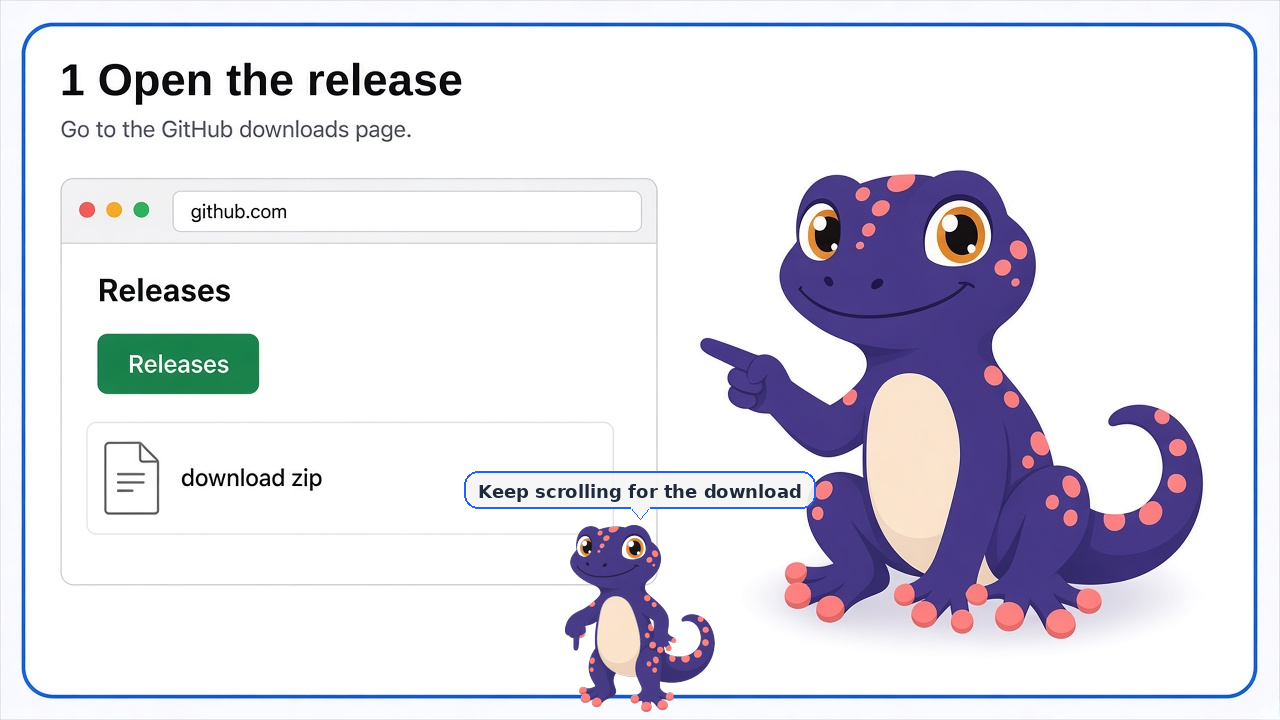
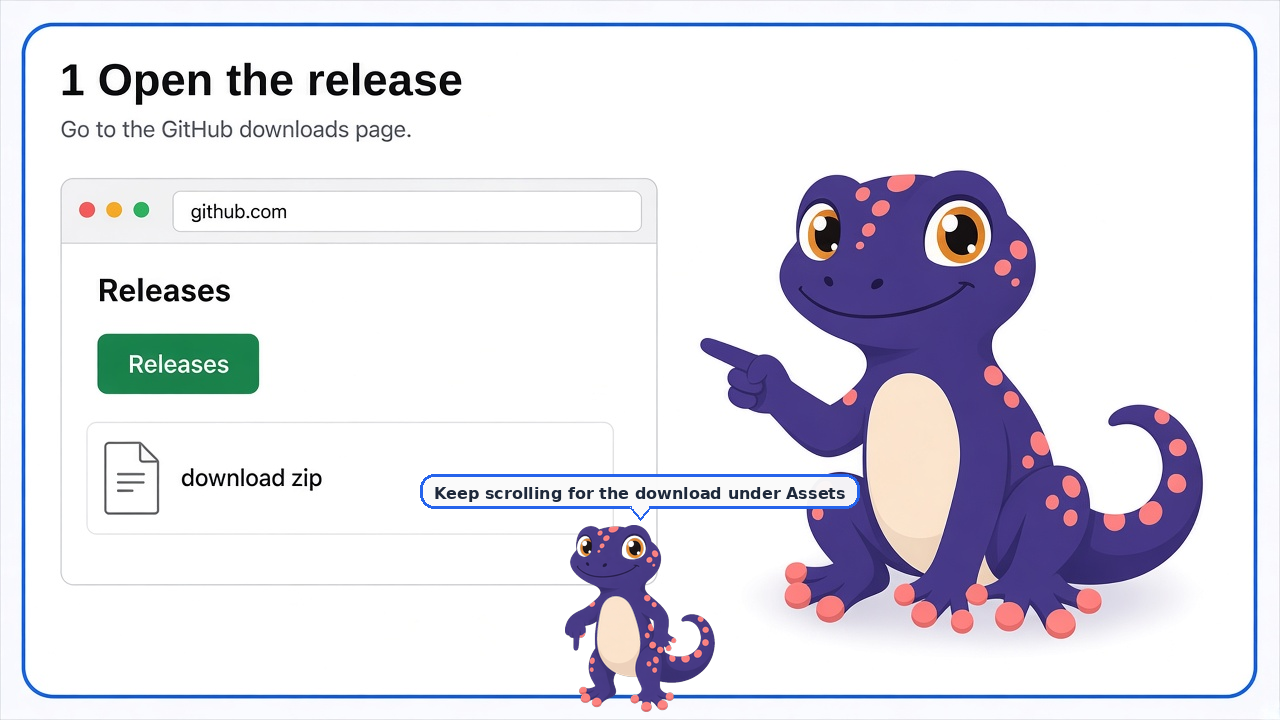
Show Assets in the gecko bubble and bust image cache.
Bubble now says “Keep scrolling for the download under Assets”, and cards move to docs/cards/ so the GitHub page loads fresh pictures.

Changed region(s): [[0.3125, 0.6417, 0.6875, 0.7333]]

diff --git a/README.md b/README.md
@@ -6,7 +6,7 @@
 - Works with several live tabs open.
 - Free. No account. Nothing leaves your computer.
 
-<img src="docs/what-it-is.png" width="800" alt="Watch the live stream. Ads stay off your screen. The stream keeps playing, several live tabs can stay open, and nothing leaves your computer.">
+<img src="docs/cards/what-it-is.png" width="800" alt="Watch the live stream. Ads stay off your screen. The stream keeps playing, several live tabs can stay open, and nothing leaves your computer.">
 
 A free Chrome extension for Twitch live streams and YouTube. It runs only in your browser and does not send data anywhere.
 
@@ -20,16 +20,16 @@ A free Chrome extension for Twitch live streams and YouTube. It runs only in you
 
 It only runs inside Chrome on Twitch and YouTube.
 
-<img src="docs/safe/02-only-sites.png" width="800" alt="Only Twitch and YouTube. Does not run other webpages or programs on your PC.">
+<img src="docs/cards/safe/02-only-sites.png" width="800" alt="Only Twitch and YouTube. Does not run other webpages or programs on your PC.">
 
-<img src="docs/safe/03-no-data.png" width="800" alt="No data collection. No account. Nothing is collected or sent off your computer.">
+<img src="docs/cards/safe/03-no-data.png" width="800" alt="No data collection. No account. Nothing is collected or sent off your computer.">
 
 - **Only Twitch and YouTube** — does not open or run other webpages, and does not install programs on your PC.
 - **No data collection** — no account, nothing collected, nothing sent off your computer.
 
 ## Current build
 
-<img src="docs/whats-new.png" width="800" alt="Current stable build v0.2.3. Gecko toolbar icon. Twitch live swaps to a clean stream during ads. YouTube clears player ads and home Sponsored cards.">
+<img src="docs/cards/whats-new.png" width="800" alt="Current stable build v0.2.3. Gecko toolbar icon. Twitch live swaps to a clean stream during ads. YouTube clears player ads and home Sponsored cards.">
 
 The toolbar icon is a gecko head. Twitch and YouTube work as described above.
 
@@ -43,13 +43,13 @@ You do **not** need a GitHub account. You are only downloading a zip and loading
 
 ### 1. Open the release page
 
-<img src="docs/install/01-open-github.png" width="800" alt="Step 1: Open the GitHub release page.">
+<img src="docs/cards/install/01-open-github.png" width="800" alt="Step 1: Open the GitHub release page.">
 
 Or skip ahead and use the download button in step 2.
 
 ### 2. Download the zip
 
-<img src="docs/install/02-download-zip.png" width="800" alt="Step 2: Download the zip. A second gecko points down toward the download link below.">
+<img src="docs/cards/install/02-download-zip.png" width="800" alt="Step 2: Download the zip. A second gecko points down toward the download link below.">
 
 ↓ The download is right under this picture:
 
@@ -59,7 +59,7 @@ On the release page, the file is also listed under **Assets**.
 
 ### 3. Unzip the folder
 
-<img src="docs/install/03-unzip.png" width="800" alt="Step 3: Unzip the download and keep the folder.">
+<img src="docs/cards/install/03-unzip.png" width="800" alt="Step 3: Unzip the download and keep the folder.">
 
 - Windows: right-click the zip → **Extract All…**
 - Mac: double-click the zip
@@ -68,14 +68,14 @@ Keep the folder that appears. Do not delete it after install — Chrome reads th
 
 ### 4. Open Chrome Extensions
 
-<img src="docs/install/04-extensions.png" width="800" alt="Step 4: Open chrome://extensions and turn on Developer mode.">
+<img src="docs/cards/install/04-extensions.png" width="800" alt="Step 4: Open chrome://extensions and turn on Developer mode.">
 
 1. Open a new tab and go to `chrome://extensions`
 2. Turn on **Developer mode** (top right)
 
 ### 5. Load unpacked
 
-<img src="docs/install/05-load-unpacked.png" width="800" alt="Step 5: Click Load unpacked and pick the folder with manifest.json.">
+<img src="docs/cards/install/05-load-unpacked.png" width="800" alt="Step 5: Click Load unpacked and pick the folder with manifest.json.">
 
 1. Click **Load unpacked**
 2. Choose the unzipped folder (the one that contains `manifest.json`)
@@ -85,7 +85,7 @@ Turn off other Twitch or YouTube ad blockers while this is loaded. Two ad blocke
 
 ### 6. Debug (optional)
 
-<img src="docs/install/06-debug.png" width="800" alt="Step 6: Debug starts off. Turn it on only if you need a log.">
+<img src="docs/cards/install/06-debug.png" width="800" alt="Step 6: Debug starts off. Turn it on only if you need a log.">
 
 Debug starts **OFF**. Leave it off for normal watching.
 
